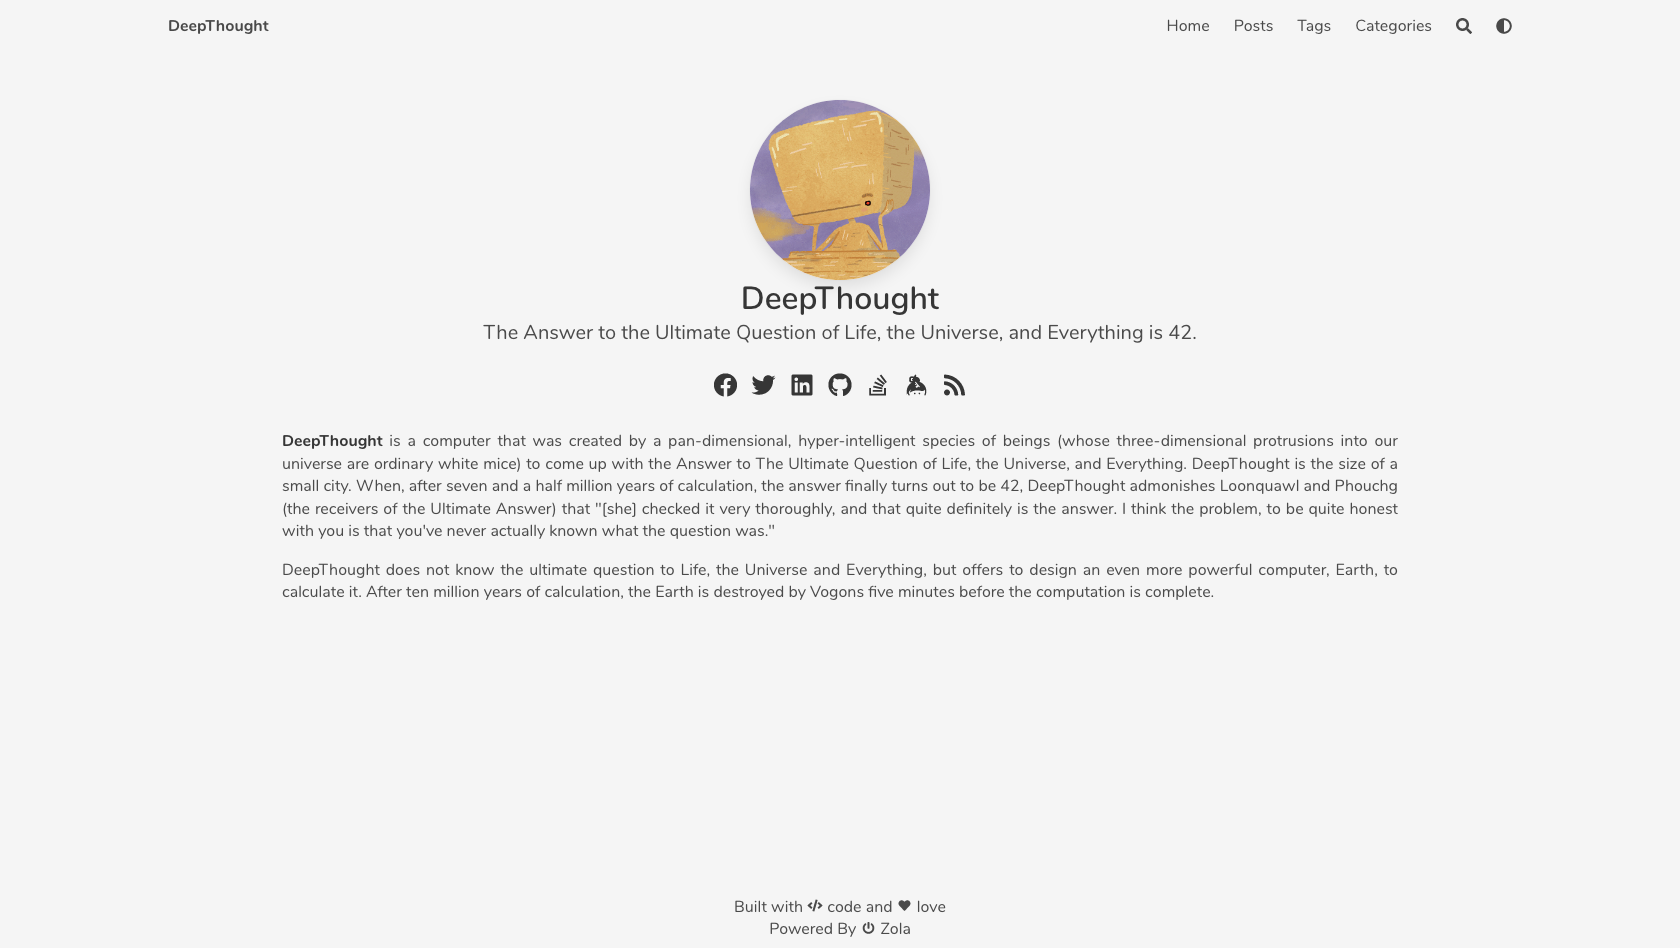
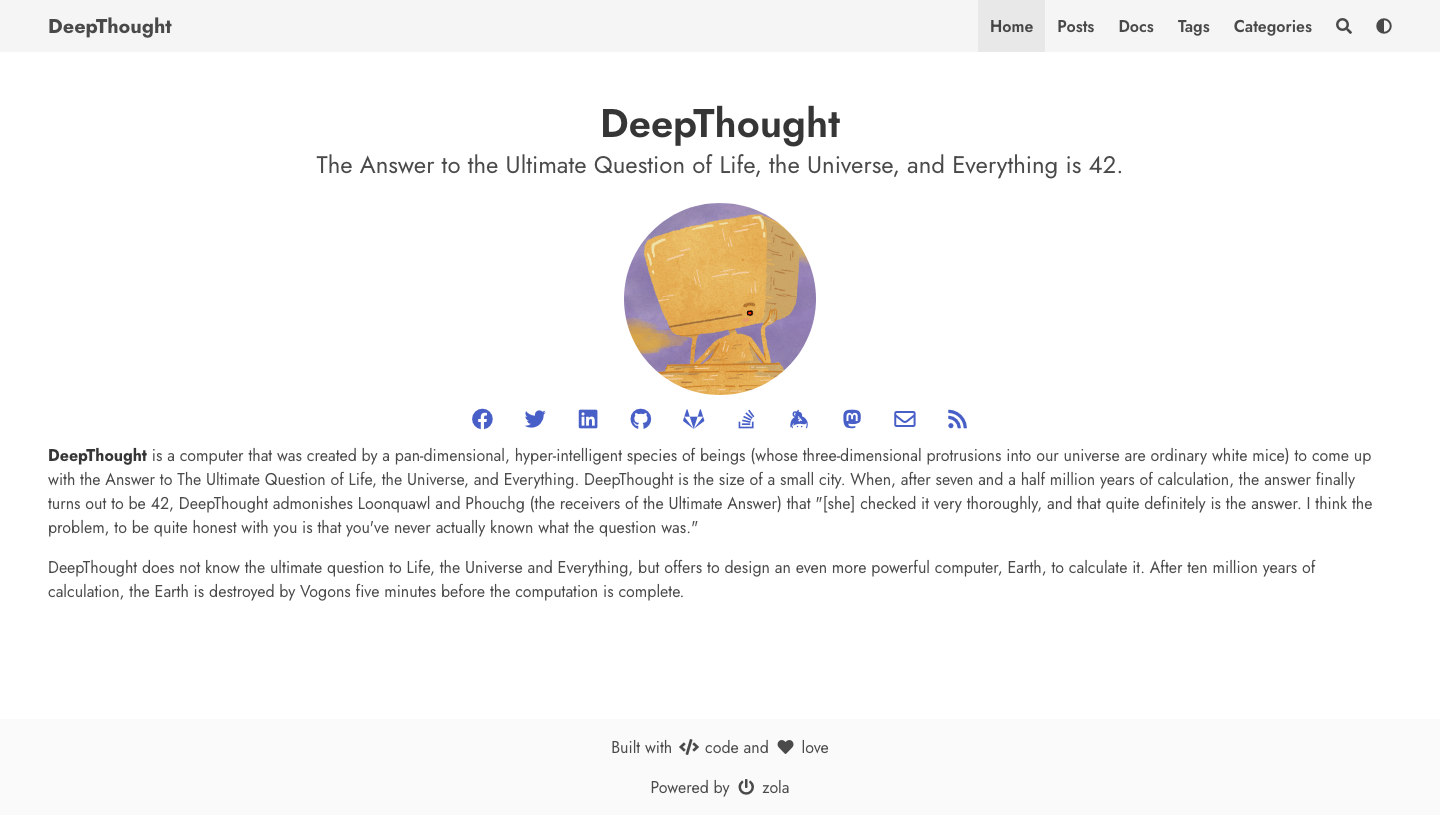
Bump zola version and update screenshot

diff --git a/README.md b/README.md
@@ -44,8 +44,6 @@
   </ol>
 </details>
 
-
-
 ## About The Project
 
 [![DeepThought](./screenshot.png)](https://deepthought-theme.netlify.app/)
@@ -53,6 +51,7 @@
 > A simple blog theme focused on writing powered by Bulma and Zola.
 
 ### Features
+
 - [x] Dark Mode
 - [x] Pagination
 - [x] Search
@@ -67,13 +66,10 @@
 - [x] Multilingual Navbar
 - [x] Katex
 
-
 ### Built With
 
-* [Zola](https://www.getzola.org/)
-* [Bulma](https://bulma.io/)
-
-
+- [Zola](https://www.getzola.org/)
+- [Bulma](https://bulma.io/)
 
 ## Getting Started
 
@@ -91,19 +87,20 @@ Make sure to add `theme = "DeepThought"` to your `config.toml`
 **Check zola version (only 0.9.0+)**
 Just to double-check to make sure you have the right version. It is not supported to use this theme with a version under 0.14.1.
 
-
-
 ## Usage
 
 ### How to serve?
+
 Go into your sites directory and type `zola serve`. You should see your new site at `localhost:1111`.
 
- **NOTE**: you must provide the theme options variables in `config.toml` to serve a functioning site
+**NOTE**: you must provide the theme options variables in `config.toml` to serve a functioning site
 
 ### Deployment
+
 [Zola](https://www.getzola.org) already has great documentation for deploying to [Netlify](https://www.getzola.org/documentation/deployment/netlify/) or [Github Pages](https://www.getzola.org/documentation/deployment/github-pages/). I won't bore you with a regurgitated explanation.
 
 ### Theme Options
+
 ```toml
 # Enable external libraries
 [extra]
@@ -176,7 +173,7 @@ If you want to have a multilingual navbar on your blog, you must add your new co
 
 ```toml
 languages = [
-    {code = "fr"}, 
+    {code = "fr"},
     {code = "es"},
 ]
 ```
@@ -212,10 +209,9 @@ fr:
 
 ![DeepThought](./screenshot_navbar_fr.png)
 
-es: 
+es:
 
 ![DeepThought](./screenshot_navbar_es.png)
-
 
 ### KaTeX math formula support
 
@@ -224,9 +220,10 @@ which can be enabled by setting `katex.enabled = true` in the `extra` section
 of `config.toml`.
 
 After enabling this extension, the `katex` short code can be used in documents:
-* `{{ katex(body="\KaTeX") }}` to typeset a math formula inlined into a text,
+
+- `{{ katex(body="\KaTeX") }}` to typeset a math formula inlined into a text,
   similar to `$...$` in LaTeX
-* `{% katex(block=true) %}\KaTeX{% end %}` to typeset a block of math formulas,
+- `{% katex(block=true) %}\KaTeX{% end %}` to typeset a block of math formulas,
   similar to `$$...$$` in LaTeX
 
 #### Automatic rendering without short codes
@@ -234,7 +231,6 @@ After enabling this extension, the `katex` short code can be used in documents:
 Optionally, `\\( \KaTeX \\)` / `$ \KaTeX $` inline and `\\[ \KaTeX \\]` / `$$ \KaTeX $$`
 block-style automatic rendering is also supported, if enabled in the config
 by setting `katex.auto_render = true`.
-
 
 ### Elasticlunr search in other language
 
@@ -245,23 +241,19 @@ By placing the `templates/base.html`on your project and using the `other_lang_se
 e.g. `templates/base.html`
 
 ```html
-{% extends "DeepThought/templates/base.html" %}
-{% block other_lang_search_js %}
-  <script src="{{ get_url(path='js/lunr.stemmer.support.js') }}"></script>
-  <script src="{{ get_url(path='js/tinyseg.js') }}"></script>
-  <script src="{{ get_url(path='js/lunr.' ~ lang ~ '.js') }}"></script>
-  <script src="{{ get_url(path='js/search.js') }}"></script>
+{% extends "DeepThought/templates/base.html" %} {% block other_lang_search_js %}
+<script src="{{ get_url(path='js/lunr.stemmer.support.js') }}"></script>
+<script src="{{ get_url(path='js/tinyseg.js') }}"></script>
+<script src="{{ get_url(path='js/lunr.' ~ lang ~ '.js') }}"></script>
+<script src="{{ get_url(path='js/search.js') }}"></script>
 {% endblock %}
 ```
 
 More detailed explanations are aound in [elasticlunr's documents](https://github.com/weixsong/elasticlunr.js#other-languages-example-in-browser).
 
-
 ## Roadmap
 
 See the [open issues](https://github.com/RatanShreshtha/DeepThought/issues) for a list of proposed features (and known issues).
-
-
 
 ## Contributing
 
@@ -273,25 +265,20 @@ Contributions are what make the open source community such an amazing place to b
 4. Push to the Branch (`git push origin feature/AmazingFeature`)
 5. Open a Pull Request
 
-
-
 ## License
 
 Distributed under the MIT License. See `LICENSE` for more information.
-
-
 
 ## Contact
 
 Ratan Kulshreshtha - [@RatanShreshtha](https://twitter.com/RatanShreshtha)>
 
-
 Project Link: [https://github.com/RatanShreshtha/DeepThought](https://github.com/RatanShreshtha/DeepThought)
 
 ## Acknowledgements
 
-* [GitHub Emoji Cheat Sheet](https://www.webpagefx.com/tools/emoji-cheat-sheet)
-* [Choose an Open Source License](https://choosealicense.com)
-* [Slick Carousel](https://kenwheeler.github.io/slick)
-* [Font Awesome](https://fontawesome.com)
-* [Unsplash](https://unsplash.com/)
+- [GitHub Emoji Cheat Sheet](https://www.webpagefx.com/tools/emoji-cheat-sheet)
+- [Choose an Open Source License](https://choosealicense.com)
+- [Slick Carousel](https://kenwheeler.github.io/slick)
+- [Font Awesome](https://fontawesome.com)
+- [Unsplash](https://unsplash.com/)
